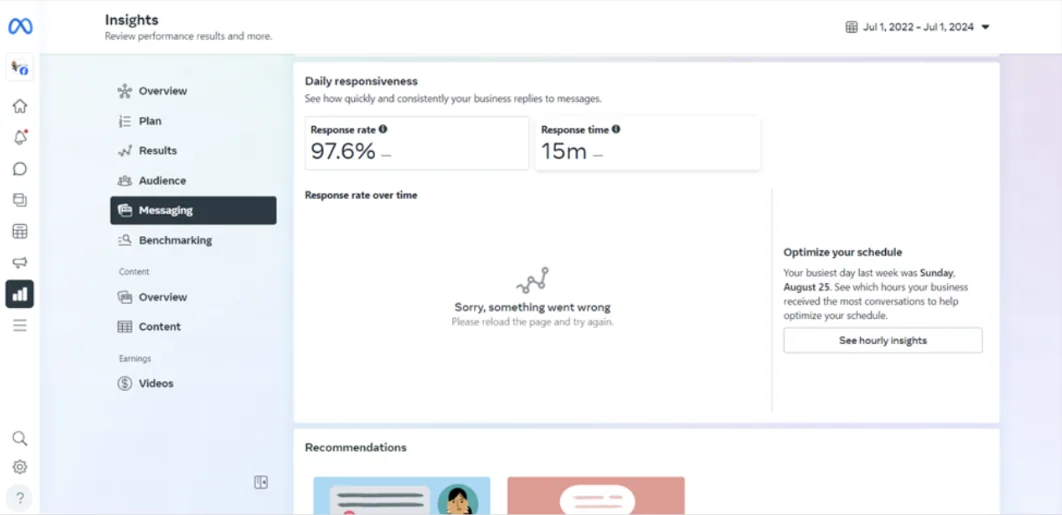
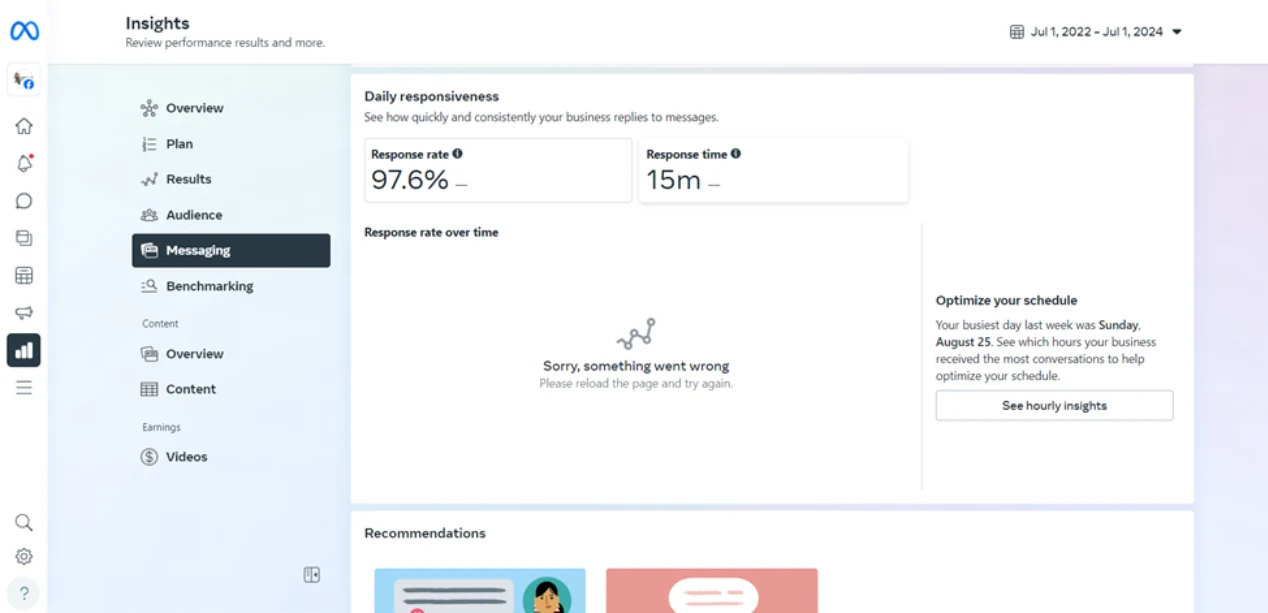
Replace DDTank Haven and Newborn messaging screenshots with HD originals
Claude-Session: https://claude.ai/code/session_01HNuxkr2wuRMSGgHB5g32cg

diff --git a/index.html b/index.html
@@ -597,7 +597,7 @@ html:has(.lb[open]){overflow:hidden}
 
       <button class="float f-discord zoom" type="button" data-full="img/ddt-discord-1.webp" data-group="hero" data-cap="DDTank Haven Discord: the #roles-you-can-get channel with reaction roles for gender and continent.">
         <span class="fbar" aria-hidden="true"><i></i><i></i><i></i><span>Discord · DDTank Haven</span></span>
-        <img src="img/ddt-discord-1.webp" width="1456" height="819" alt="DDTank Haven Discord server, roles channel">
+        <img src="img/ddt-discord-1.webp" width="1919" height="1079" alt="DDTank Haven Discord server, roles channel">
       </button>
 
       <figure class="float f-cal" style="margin:0">
@@ -852,12 +852,12 @@ html:has(.lb[open]){overflow:hidden}
         <figure class="frame" style="margin:0">
           <div class="bar" aria-hidden="true"><i></i><i></i><i></i><span>Discord · DDTank Haven 9.5 · #roles-you-can-get</span></div>
           <button class="zoom" type="button" data-full="img/ddt-discord-1.webp" data-group="ddtank" data-cap="DDTank Haven Discord, Oct 22, 2024: welcome post with reaction roles for gender and continent.">
-            <img src="img/ddt-discord-1.webp" width="1456" height="819" alt="DDTank Haven Discord server with organized channel categories" loading="lazy" decoding="async">
+            <img src="img/ddt-discord-1.webp" width="1919" height="1079" alt="DDTank Haven Discord server with organized channel categories" loading="lazy" decoding="async">
           </button>
         </figure>
         <figure class="frame over" style="margin:0">
           <button class="zoom" type="button" data-full="img/ddt-insights.webp" data-group="ddtank" data-cap="DDTank Haven Facebook performance, May 15 – Jun 11, 2025: 111.6K views, 20.2K reach, 395 content interactions.">
-            <img src="img/ddt-insights.webp" width="799" height="414" alt="Facebook insights for DDTank Haven showing 111.6K views" loading="lazy" decoding="async">
+            <img src="img/ddt-insights.webp" width="1917" height="993" alt="Facebook insights for DDTank Haven showing 111.6K views" loading="lazy" decoding="async">
           </button>
         </figure>
       </div>
@@ -900,7 +900,7 @@ html:has(.lb[open]){overflow:hidden}
         </figure>
         <figure class="frame over" style="margin:0">
           <button class="zoom" type="button" data-full="img/nb-msg-response.webp" data-group="newborn" data-cap="Messaging responsiveness, Jul 1, 2022 – Jul 1, 2024: 97.6% response rate, 15 min response time.">
-            <img src="img/nb-msg-response.webp" width="1062" height="515" alt="Meta insights showing a 97.6% response rate and 15 minute response time" loading="lazy" decoding="async">
+            <img src="img/nb-msg-response.webp" width="1268" height="613" alt="Meta insights showing a 97.6% response rate and 15 minute response time" loading="lazy" decoding="async">
           </button>
         </figure>
       </div>
@@ -991,7 +991,7 @@ html:has(.lb[open]){overflow:hidden}
         <div class="meta"><p class="k">Friesta · Facebook ad · 1.91:1</p><p class="t">Thick Cut Fries + FREE Upsize, Nov 14–20</p></div>
       </article>
       <article class="item" data-cat="community">
-        <button class="media zoom" type="button" data-full="img/ddt-discord-1.webp" data-group="show" data-cap="DDTank Haven Discord, Oct 22, 2024: welcome post with reaction roles."><img src="img/ddt-discord-1.webp" width="1456" height="819" alt="Discord roles channel" loading="lazy" decoding="async"></button>
+        <button class="media zoom" type="button" data-full="img/ddt-discord-1.webp" data-group="show" data-cap="DDTank Haven Discord, Oct 22, 2024: welcome post with reaction roles."><img src="img/ddt-discord-1.webp" width="1919" height="1079" alt="Discord roles channel" loading="lazy" decoding="async"></button>
         <div class="meta"><p class="k">DDTank Haven · Discord</p><p class="t">Welcome post with reaction roles for gender and continent</p></div>
       </article>
       <article class="item" data-cat="graphics">
@@ -1019,7 +1019,7 @@ html:has(.lb[open]){overflow:hidden}
         <div class="meta"><p class="k">Friesta · Strategy · Persona</p><p class="t">Meet “Fry-Night Faye,” the late-night snacker</p></div>
       </article>
       <article class="item" data-cat="community">
-        <button class="media zoom" type="button" data-full="img/ddt-discord-4.webp" data-group="show" data-cap="DDTank Haven Discord, May 27, 2025: winners of the third giveaway event."><img src="img/ddt-discord-4.webp" width="1456" height="821" alt="Discord giveaway winners announcement" loading="lazy" decoding="async"></button>
+        <button class="media zoom" type="button" data-full="img/ddt-discord-4.webp" data-group="show" data-cap="DDTank Haven Discord, May 27, 2025: winners of the third giveaway event."><img src="img/ddt-discord-4.webp" width="1913" height="1078" alt="Discord giveaway winners announcement" loading="lazy" decoding="async"></button>
         <div class="meta"><p class="k">DDTank Haven · Discord · May 27, 2025</p><p class="t">Winners of the third giveaway event</p></div>
       </article>
       <article class="item reel" data-cat="reels">
@@ -1043,7 +1043,7 @@ html:has(.lb[open]){overflow:hidden}
         <div class="meta"><p class="k">Meta course activity · Results</p><p class="t">40,350 clicks at $0.07, ROAS 11.43</p></div>
       </article>
       <article class="item" data-cat="reels">
-        <button class="media zoom" type="button" data-full="img/ddt-capcut.webp" data-group="show" data-cap="Editing DDTank Haven Shorts and Reels in CapCut."><span class="kind"><svg><use href="#i-play"/></svg>Editing</span><img src="img/ddt-capcut.webp" width="1456" height="812" alt="Three CapCut editing timelines for DDTank Haven videos" loading="lazy" decoding="async"></button>
+        <button class="media zoom" type="button" data-full="img/ddt-capcut.webp" data-group="show" data-cap="Editing DDTank Haven Shorts and Reels in CapCut."><span class="kind"><svg><use href="#i-play"/></svg>Editing</span><img src="img/ddt-capcut.webp" width="1919" height="1071" alt="Three CapCut editing timelines for DDTank Haven videos" loading="lazy" decoding="async"></button>
         <div class="meta"><p class="k">DDTank Haven · CapCut</p><p class="t">Shorts and Reels edited for YouTube, Instagram and Facebook</p></div>
       </article>
       <article class="item reel" data-cat="reels">
@@ -1063,7 +1063,7 @@ html:has(.lb[open]){overflow:hidden}
         <div class="meta"><p class="k">Newborn Vape Lounge · Graphic</p><p class="t">Frutta Kool flavor lineup</p></div>
       </article>
       <article class="item" data-cat="community">
-        <button class="media zoom" type="button" data-full="img/ddt-discord-2.webp" data-group="show" data-cap="DDTank Haven Discord: English chat with level-up messages from the server bot."><img src="img/ddt-discord-2.webp" width="1456" height="819" alt="Discord chat channel with level-up messages" loading="lazy" decoding="async"></button>
+        <button class="media zoom" type="button" data-full="img/ddt-discord-2.webp" data-group="show" data-cap="DDTank Haven Discord: English chat with level-up messages from the server bot."><img src="img/ddt-discord-2.webp" width="1919" height="1079" alt="Discord chat channel with level-up messages" loading="lazy" decoding="async"></button>
         <div class="meta"><p class="k">DDTank Haven · Discord</p><p class="t">English chat with bot level-up messages</p></div>
       </article>
       <article class="item reel" data-cat="reels">
@@ -1087,7 +1087,7 @@ html:has(.lb[open]){overflow:hidden}
         <div class="meta"><p class="k">Friesta · Ad mockup</p><p class="t">Taglish primary text, headline and Send message button</p></div>
       </article>
       <article class="item" data-cat="community">
-        <button class="media zoom" type="button" data-full="img/ddt-instagram.webp" data-group="show" data-cap="DDTank Haven Instagram profile with game update posts."><img src="img/ddt-instagram.webp" width="796" height="411" alt="DDTank Haven Instagram profile" loading="lazy" decoding="async"></button>
+        <button class="media zoom" type="button" data-full="img/ddt-instagram.webp" data-group="show" data-cap="DDTank Haven Instagram profile with game update posts."><img src="img/ddt-instagram.webp" width="1919" height="993" alt="DDTank Haven Instagram profile" loading="lazy" decoding="async"></button>
         <div class="meta"><p class="k">DDTank Haven · Instagram</p><p class="t">Profile grid with launch and update posts</p></div>
       </article>
       <article class="item" data-cat="graphics">
@@ -1099,11 +1099,11 @@ html:has(.lb[open]){overflow:hidden}
         <div class="meta"><p class="k">Newborn Vape Lounge · Graphic</p><p class="t">Drop V2 RDA 1:1 product post</p></div>
       </article>
       <article class="item" data-cat="community">
-        <button class="media zoom" type="button" data-full="img/ddt-discord-3.webp" data-group="show" data-cap="DDTank Haven Discord giveaway channel: 1000 Coins Giveaway."><img src="img/ddt-discord-3.webp" width="1456" height="819" alt="Discord giveaway channel" loading="lazy" decoding="async"></button>
+        <button class="media zoom" type="button" data-full="img/ddt-discord-3.webp" data-group="show" data-cap="DDTank Haven Discord giveaway channel: 1000 Coins Giveaway."><img src="img/ddt-discord-3.webp" width="1919" height="1079" alt="Discord giveaway channel" loading="lazy" decoding="async"></button>
         <div class="meta"><p class="k">DDTank Haven · Discord</p><p class="t">1000 Coins Giveaway in the #giveaway channel</p></div>
       </article>
       <article class="item" data-cat="community">
-        <button class="media zoom" type="button" data-full="img/ddt-facebook.webp" data-group="show" data-cap="DDTank Haven Facebook page managed in Meta Business Suite."><img src="img/ddt-facebook.webp" width="799" height="411" alt="DDTank Haven Facebook page" loading="lazy" decoding="async"></button>
+        <button class="media zoom" type="button" data-full="img/ddt-facebook.webp" data-group="show" data-cap="DDTank Haven Facebook page managed in Meta Business Suite."><img src="img/ddt-facebook.webp" width="1919" height="989" alt="DDTank Haven Facebook page" loading="lazy" decoding="async"></button>
         <div class="meta"><p class="k">DDTank Haven · Facebook</p><p class="t">Page with “Play now” cover and pinned updates</p></div>
       </article>
       <article class="item shot" data-cat="ads">
@@ -1115,11 +1115,11 @@ html:has(.lb[open]){overflow:hidden}
         <div class="meta"><p class="k">Meta course activity · A/B test</p><p class="t">Free shipping vs 10% off: 6× cheaper clicks</p></div>
       </article>
       <article class="item" data-cat="community">
-        <button class="media zoom" type="button" data-full="img/ddt-youtube.webp" data-group="show" data-cap="DDTank Haven YouTube Studio: Shorts published May 14, 2025."><img src="img/ddt-youtube.webp" width="799" height="392" alt="YouTube Studio Shorts list for DDTank Haven" loading="lazy" decoding="async"></button>
+        <button class="media zoom" type="button" data-full="img/ddt-youtube.webp" data-group="show" data-cap="DDTank Haven YouTube Studio: Shorts published May 14, 2025."><img src="img/ddt-youtube.webp" width="1918" height="941" alt="YouTube Studio Shorts list for DDTank Haven" loading="lazy" decoding="async"></button>
         <div class="meta"><p class="k">DDTank Haven · YouTube</p><p class="t">Launch guide and gameplay Shorts</p></div>
       </article>
       <article class="item" data-cat="community">
-        <button class="media zoom" type="button" data-full="img/ddt-insights.webp" data-group="show" data-cap="DDTank Haven Facebook performance, May 15 – Jun 11, 2025."><img src="img/ddt-insights.webp" width="799" height="414" alt="DDTank Haven Facebook insights" loading="lazy" decoding="async"></button>
+        <button class="media zoom" type="button" data-full="img/ddt-insights.webp" data-group="show" data-cap="DDTank Haven Facebook performance, May 15 – Jun 11, 2025."><img src="img/ddt-insights.webp" width="1917" height="993" alt="DDTank Haven Facebook insights" loading="lazy" decoding="async"></button>
         <div class="meta"><p class="k">DDTank Haven · Insights</p><p class="t">111.6K views and 20.2K reach in four weeks</p></div>
       </article>
     </div>
